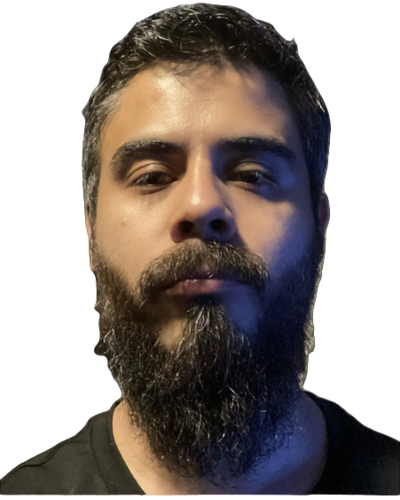
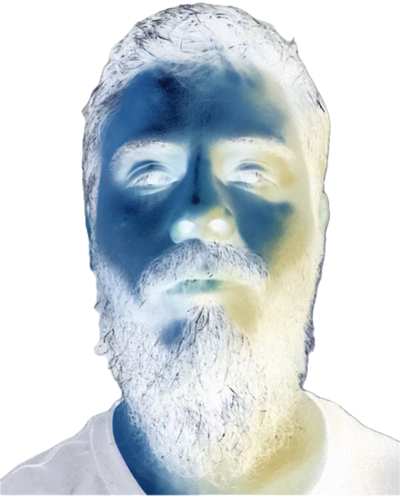
change photo

diff --git a/archive.html b/archive.html
@@ -11,9 +11,6 @@
 <link rel="preconnect" href="https://fonts.gstatic.com" crossorigin>
 <link href="https://fonts.googleapis.com/css2?family=Roboto+Slab&display=swap" rel="stylesheet">
 <link rel="icon" href="favicon.ico" type="image/x-icon">
-<style type="text/css">
-article,aside,details,figcaption,figure,footer,header,hgroup,nav,section,summary{display:block}audio,canvas,video{display:inline-block}audio:not([controls]){display:none;height:0}[hidden]{display:none}html{font-family:sans-serif;-webkit-text-size-adjust:100%;-ms-text-size-adjust:100%}body{margin:0}a:focus{outline:thin dotted}a:active,a:hover{outline:0}h1{font-size:2em}abbr[title]{border-bottom:1px dotted}b,strong{font-weight:bold}dfn{font-style:italic}mark{background:#ff0;color:#000}code,kbd,pre,samp{font-family:monospace,serif;font-size:1em}pre{white-space:pre-wrap;word-wrap:break-word}q{quotes:"\201C" "\201D" "\2018" "\2019"}small{font-size:80%}sub,sup{font-size:75%;line-height:0;position:relative;vertical-align:baseline}sup{top:-0.5em}sub{bottom:-0.25em}img{border:0}svg:not(:root){overflow:hidden}figure{margin:0}fieldset{border:1px solid #c0c0c0;margin:0 2px;padding:.35em .625em .75em}legend{border:0;padding:0}button,input,select,textarea{font-family:inherit;font-size:100%;margin:0}button,input{line-height:normal}button,html input[type="button"],input[type="reset"],input[type="submit"]{-webkit-appearance:button;cursor:pointer}button[disabled],input[disabled]{cursor:default}input[type="checkbox"],input[type="radio"]{box-sizing:border-box;padding:0}input[type="search"]{-webkit-appearance:textfield;-moz-box-sizing:content-box;-webkit-box-sizing:content-box;box-sizing:content-box}input[type="search"]::-webkit-search-cancel-button,input[type="search"]::-webkit-search-decoration{-webkit-appearance:none}button::-moz-focus-inner,input::-moz-focus-inner{border:0;padding:0}textarea{overflow:auto;vertical-align:top}table{border-collapse:collapse;border-spacing:0}html{font-family:'PT Sans',sans-serif}pre,code{font-family:'Inconsolata',sans-serif}h1,h2,h3,h4,h5,h6{font-family:'PT Sans Narrow',sans-serif;font-weight:700}html{background-color:#073642;color:#839496;margin:1em}body{background-color:#002b36;margin:0 auto;max-width:23cm;border:1pt solid #586e75;padding:1em}code{background-color:#073642;padding:2px}a{color:#b58900}a:visited{color:#cb4b16}a:hover{color:#cb4b16}h1{color:#d33682}h2,h3,h4,h5,h6{color:#859900}pre{background-color:#002b36;color:#839496;border:1pt solid #586e75;padding:1em;box-shadow:5pt 5pt 8pt #073642}pre code{background-color:#002b36}h1{font-size:2.8em}h2{font-size:2.4em}h3{font-size:1.8em}h4{font-size:1.4em}h5{font-size:1.3em}h6{font-size:1.15em}.tag{background-color:#073642;color:#d33682;padding:0 .2em}.todo,.next,.done{color:#002b36;background-color:#dc322f;padding:0 .2em}.tag{-webkit-border-radius:.35em;-moz-border-radius:.35em;border-radius:.35em}.TODO{-webkit-border-radius:.2em;-moz-border-radius:.2em;border-radius:.2em;background-color:#2aa198}.NEXT{-webkit-border-radius:.2em;-moz-border-radius:.2em;border-radius:.2em;background-color:#268bd2}.ACTIVE{-webkit-border-radius:.2em;-moz-border-radius:.2em;border-radius:.2em;background-color:#268bd2}.DONE{-webkit-border-radius:.2em;-moz-border-radius:.2em;border-radius:.2em;background-color:#859900}.WAITING{-webkit-border-radius:.2em;-moz-border-radius:.2em;border-radius:.2em;background-color:#cb4b16}.HOLD{-webkit-border-radius:.2em;-moz-border-radius:.2em;border-radius:.2em;background-color:#d33682}.NOTE{-webkit-border-radius:.2em;-moz-border-radius:.2em;border-radius:.2em;background-color:#d33682}.CANCELLED{-webkit-border-radius:.2em;-moz-border-radius:.2em;border-radius:.2em;background-color:#859900}
-</style>
 </head>
 <body>
 <div id="preamble" class="status">
@@ -35,9 +32,9 @@ article,aside,details,figcaption,figure,footer,header,hgroup,nav,section,summary
 <header>
 <h1 class="title">Posts Archive</h1>
 </header>
-<div id="outline-container-orge17a0f8" class="outline-2">
-<h2 id="orge17a0f8"><a href="posts/20231226T142110--attempt-to-test-rss-feeds__personal_post.html">(2023-12-26) Attempt to test RSS feeds</a></h2>
-<div class="outline-text-2" id="text-orge17a0f8">
+<div id="outline-container-orgc05babf" class="outline-2">
+<h2 id="orgc05babf"><a href="posts/20231226T142110--attempt-to-test-rss-feeds__personal_post.html">(2023-12-26) Attempt to test RSS feeds</a></h2>
+<div class="outline-text-2" id="text-orgc05babf">
 <p>
 Hello.
 </p>
@@ -50,9 +47,9 @@ So, this is the preview and read this post to see what I'm trying to do.
 </p>
 </div>
 </div>
-<div id="outline-container-org0360f3c" class="outline-2">
-<h2 id="org0360f3c"><a href="posts/20231225T213425--denote-silo-function__emacs_personal_post.html">(2023-12-25) denote silo function</a></h2>
-<div class="outline-text-2" id="text-org0360f3c">
+<div id="outline-container-orgf24d116" class="outline-2">
+<h2 id="orgf24d116"><a href="posts/20231225T213425--denote-silo-function__emacs_personal_post.html">(2023-12-25) denote silo function</a></h2>
+<div class="outline-text-2" id="text-orgf24d116">
 <p>
 I have been reading some thing information about denote, and its powerful tools
 that the good <code>prots</code> give to us the mortals. I am starting this "post" thing, and 
@@ -62,9 +59,9 @@ in the creation of notes.
 </p>
 </div>
 </div>
-<div id="outline-container-orgcc1619e" class="outline-2">
-<h2 id="orgcc1619e"><a href="posts/20231224T095629--themes-and-end-of-the-year__personal_post.html">(2023-12-23) Themes and end of the year</a></h2>
-<div class="outline-text-2" id="text-orgcc1619e">
+<div id="outline-container-org677049f" class="outline-2">
+<h2 id="org677049f"><a href="posts/20231224T095629--themes-and-end-of-the-year__personal_post.html">(2023-12-23) Themes and end of the year</a></h2>
+<div class="outline-text-2" id="text-org677049f">
 <p>
 This is the first of a few posts I'm creating this "web" only for my knowledge,
 and contribute with some of it.

diff --git a/sitemap.html b/sitemap.html
@@ -33,50 +33,50 @@
 <h2>Table of Contents</h2>
 <div id="text-table-of-contents" role="doc-toc">
 <ul>
-<li><a href="#orgdba148a">(2023-12-26) Javier Pacheco</a></li>
-<li><a href="#orge4da51b">(2023-12-26) About Me</a></li>
-<li><a href="#orge10b153">(2023-12-26) Posts Archive</a></li>
-<li><a href="#orgad9bc01">posts</a>
+<li><a href="#orgcb57235">(2023-12-26) Posts Archive</a></li>
+<li><a href="#org7d0cd62">(2023-12-26) Javier Pacheco</a></li>
+<li><a href="#org29e22b1">(2023-12-26) About Me</a></li>
+<li><a href="#org2e75d76">posts</a>
 <ul>
-<li><a href="#org3dbf5df">(2023-12-26) Attempt to test RSS feeds</a></li>
-<li><a href="#org255c64f">(2023-12-25) denote silo function</a></li>
-<li><a href="#org71ce504">(2023-12-23) Themes and end of the year</a></li>
+<li><a href="#orgb99a533">(2023-12-26) Attempt to test RSS feeds</a></li>
+<li><a href="#orgf9f64c7">(2023-12-25) denote silo function</a></li>
+<li><a href="#org0b57f21">(2023-12-23) Themes and end of the year</a></li>
 </ul>
 </li>
 </ul>
 </div>
 </nav>
-<div id="outline-container-orgdba148a" class="outline-2">
-<h2 id="orgdba148a"><a href="index.html">(2023-12-26) Javier Pacheco</a></h2>
-<div class="outline-text-2" id="text-orgdba148a">
+<div id="outline-container-orgcb57235" class="outline-2">
+<h2 id="orgcb57235"><a href="archive.html">(2023-12-26) Posts Archive</a></h2>
+<div class="outline-text-2" id="text-orgcb57235">
 <p>
 (No preview)
 </p>
 </div>
 </div>
-<div id="outline-container-orge4da51b" class="outline-2">
-<h2 id="orge4da51b"><a href="about.html">(2023-12-26) About Me</a></h2>
-<div class="outline-text-2" id="text-orge4da51b">
+<div id="outline-container-org7d0cd62" class="outline-2">
+<h2 id="org7d0cd62"><a href="index.html">(2023-12-26) Javier Pacheco</a></h2>
+<div class="outline-text-2" id="text-org7d0cd62">
 <p>
 (No preview)
 </p>
 </div>
 </div>
-<div id="outline-container-orge10b153" class="outline-2">
-<h2 id="orge10b153"><a href="archive.html">(2023-12-26) Posts Archive</a></h2>
-<div class="outline-text-2" id="text-orge10b153">
+<div id="outline-container-org29e22b1" class="outline-2">
+<h2 id="org29e22b1"><a href="about.html">(2023-12-26) About Me</a></h2>
+<div class="outline-text-2" id="text-org29e22b1">
 <p>
 (No preview)
 </p>
 </div>
 </div>
-<div id="outline-container-orgad9bc01" class="outline-2">
-<h2 id="orgad9bc01">posts</h2>
-<div class="outline-text-2" id="text-orgad9bc01">
+<div id="outline-container-org2e75d76" class="outline-2">
+<h2 id="org2e75d76">posts</h2>
+<div class="outline-text-2" id="text-org2e75d76">
 </div>
-<div id="outline-container-org3dbf5df" class="outline-3">
-<h3 id="org3dbf5df"><a href="posts/20231226T142110--attempt-to-test-rss-feeds__personal_post.html">(2023-12-26) Attempt to test RSS feeds</a></h3>
-<div class="outline-text-3" id="text-org3dbf5df">
+<div id="outline-container-orgb99a533" class="outline-3">
+<h3 id="orgb99a533"><a href="posts/20231226T142110--attempt-to-test-rss-feeds__personal_post.html">(2023-12-26) Attempt to test RSS feeds</a></h3>
+<div class="outline-text-3" id="text-orgb99a533">
 <p>
 Hello.
 </p>
@@ -89,9 +89,9 @@ So, this is the preview and read this post to see what I'm trying to do.
 </p>
 </div>
 </div>
-<div id="outline-container-org255c64f" class="outline-3">
-<h3 id="org255c64f"><a href="posts/20231225T213425--denote-silo-function__emacs_personal_post.html">(2023-12-25) denote silo function</a></h3>
-<div class="outline-text-3" id="text-org255c64f">
+<div id="outline-container-orgf9f64c7" class="outline-3">
+<h3 id="orgf9f64c7"><a href="posts/20231225T213425--denote-silo-function__emacs_personal_post.html">(2023-12-25) denote silo function</a></h3>
+<div class="outline-text-3" id="text-orgf9f64c7">
 <p>
 I have been reading some thing information about denote, and its powerful tools
 that the good <code>prots</code> give to us the mortals. I am starting this "post" thing, and 
@@ -101,9 +101,9 @@ in the creation of notes.
 </p>
 </div>
 </div>
-<div id="outline-container-org71ce504" class="outline-3">
-<h3 id="org71ce504"><a href="posts/20231224T095629--themes-and-end-of-the-year__personal_post.html">(2023-12-23) Themes and end of the year</a></h3>
-<div class="outline-text-3" id="text-org71ce504">
+<div id="outline-container-org0b57f21" class="outline-3">
+<h3 id="org0b57f21"><a href="posts/20231224T095629--themes-and-end-of-the-year__personal_post.html">(2023-12-23) Themes and end of the year</a></h3>
+<div class="outline-text-3" id="text-org0b57f21">
 <p>
 This is the first of a few posts I'm creating this "web" only for my knowledge,
 and contribute with some of it.

diff --git a/posts/20231226T142110--attempt-to-test-rss-feeds__personal_post.html b/posts/20231226T142110--attempt-to-test-rss-feeds__personal_post.html
@@ -35,17 +35,17 @@
 <h2>Table of Contents</h2>
 <div id="text-table-of-contents" role="doc-toc">
 <ul>
-<li><a href="#orgf58d732">Rss Feeds.</a></li>
-<li><a href="#org0bcaa15">Packages needed:</a></li>
-<li><a href="#org9a36670">Functions to use:</a></li>
-<li><a href="#org2221066">Testing.</a></li>
+<li><a href="#orge4d02ac">Rss Feeds.</a></li>
+<li><a href="#orgbdb4ebb">Packages needed:</a></li>
+<li><a href="#org239d6ae">Functions to use:</a></li>
+<li><a href="#orgdcd5d03">Testing.</a></li>
 </ul>
 </div>
 </nav>
 <p>
 
 </p>
-<div class="PREVIEW" id="orgb88fc5c">
+<div class="PREVIEW" id="org5bf38d3">
 <p>
 Hello.
 </p>
@@ -59,14 +59,14 @@ So, this is the preview and read this post to see what I'm trying to do.
 
 </div>
 
-<div id="outline-container-orgf58d732" class="outline-2">
-<h2 id="orgf58d732">Rss Feeds.</h2>
-<div class="outline-text-2" id="text-orgf58d732">
+<div id="outline-container-orge4d02ac" class="outline-2">
+<h2 id="orge4d02ac">Rss Feeds.</h2>
+<div class="outline-text-2" id="text-orge4d02ac">
 <p>
 First, what is <code>rss feeds</code>?
 This is what wikipedia have in theri page:
 </p>
-<pre class="example" id="org7ba1f23">
+<pre class="example" id="org4a64547">
 RSS (RDF Site Summary or Really Simple Syndication) is a web feed that allows users and applications to access updates to websites in a standardized, computer-readable format. Subscribing to RSS feeds can allow a user to keep track of many different websites in a single news aggregator, which constantly monitor sites for new content, removing the need for the user to manually check them. News aggregators (or "RSS readers") can be built into a browser, installed on a desktop computer, or installed on a mobile device.
 </pre>
 
@@ -77,9 +77,9 @@ and stored in my host <code>codeberg pages</code>, well that is the goal, but I'
 </div>
 </div>
 
-<div id="outline-container-org0bcaa15" class="outline-2">
-<h2 id="org0bcaa15">Packages needed:</h2>
-<div class="outline-text-2" id="text-org0bcaa15">
+<div id="outline-container-orgbdb4ebb" class="outline-2">
+<h2 id="orgbdb4ebb">Packages needed:</h2>
+<div class="outline-text-2" id="text-orgbdb4ebb">
 <p>
 These are the packages that we need to use to make the rss file:
 </p>
@@ -109,9 +109,9 @@ and these need to be in the <code>build-site.el</code> script:
 </div>
 </div>
 
-<div id="outline-container-org9a36670" class="outline-2">
-<h2 id="org9a36670">Functions to use:</h2>
-<div class="outline-text-2" id="text-org9a36670">
+<div id="outline-container-org239d6ae" class="outline-2">
+<h2 id="org239d6ae">Functions to use:</h2>
+<div class="outline-text-2" id="text-org239d6ae">
 <p>
 Now declare some functions to parse in the public folder that we create for save the
 exported <code>html</code> files.
@@ -149,9 +149,9 @@ exported <code>html</code> files.
 </div>
 </div>
 
-<div id="outline-container-org2221066" class="outline-2">
-<h2 id="org2221066">Testing.</h2>
-<div class="outline-text-2" id="text-org2221066">
+<div id="outline-container-orgdcd5d03" class="outline-2">
+<h2 id="orgdcd5d03">Testing.</h2>
+<div class="outline-text-2" id="text-orgdcd5d03">
 <p>
 Well, this post ends here, now in a few minutes this post is going to be uploaded,
 and I'll see if rss feeds generator actually works whit the functions and  commands

diff --git a/index.html b/index.html
@@ -51,13 +51,13 @@ Also I'm currently learning some programming languages like:
 <p>
 <a href="./about.html">Read more&#x2026;</a>
 </p>
-<div id="outline-container-org8589d70" class="outline-2">
-<h2 id="org8589d70">Recent Posts</h2>
-<div class="outline-text-2" id="text-org8589d70">
+<div id="outline-container-org6ea9300" class="outline-2">
+<h2 id="org6ea9300">Recent Posts</h2>
+<div class="outline-text-2" id="text-org6ea9300">
 </div>
-<div id="outline-container-orgb3615da" class="outline-3">
-<h3 id="orgb3615da"><a href="posts/20231226T142110--attempt-to-test-rss-feeds__personal_post.html">(2023-12-26) Attempt to test RSS feeds</a></h3>
-<div class="outline-text-3" id="text-orgb3615da">
+<div id="outline-container-org006a236" class="outline-3">
+<h3 id="org006a236"><a href="posts/20231226T142110--attempt-to-test-rss-feeds__personal_post.html">(2023-12-26) Attempt to test RSS feeds</a></h3>
+<div class="outline-text-3" id="text-org006a236">
 <p>
 Hello.
 </p>
@@ -70,9 +70,9 @@ So, this is the preview and read this post to see what I'm trying to do.
 </p>
 </div>
 </div>
-<div id="outline-container-orgf0a9f3f" class="outline-3">
-<h3 id="orgf0a9f3f"><a href="posts/20231225T213425--denote-silo-function__emacs_personal_post.html">(2023-12-25) denote silo function</a></h3>
-<div class="outline-text-3" id="text-orgf0a9f3f">
+<div id="outline-container-org2693747" class="outline-3">
+<h3 id="org2693747"><a href="posts/20231225T213425--denote-silo-function__emacs_personal_post.html">(2023-12-25) denote silo function</a></h3>
+<div class="outline-text-3" id="text-org2693747">
 <p>
 I have been reading some thing information about denote, and its powerful tools
 that the good <code>prots</code> give to us the mortals. I am starting this "post" thing, and 
@@ -82,9 +82,9 @@ in the creation of notes.
 </p>
 </div>
 </div>
-<div id="outline-container-org4a06954" class="outline-3">
-<h3 id="org4a06954"><a href="posts/20231224T095629--themes-and-end-of-the-year__personal_post.html">(2023-12-23) Themes and end of the year</a></h3>
-<div class="outline-text-3" id="text-org4a06954">
+<div id="outline-container-org2bbc8af" class="outline-3">
+<h3 id="org2bbc8af"><a href="posts/20231224T095629--themes-and-end-of-the-year__personal_post.html">(2023-12-23) Themes and end of the year</a></h3>
+<div class="outline-text-3" id="text-org2bbc8af">
 <p>
 This is the first of a few posts I'm creating this "web" only for my knowledge,
 and contribute with some of it.
@@ -98,9 +98,9 @@ are some phrases that my dad says to me when me and my family have some problems
 </div>
 </div>
 </div>
-<div id="outline-container-org3129406" class="outline-2">
-<h2 id="org3129406">Post Archive</h2>
-<div class="outline-text-2" id="text-org3129406">
+<div id="outline-container-org6bc33ca" class="outline-2">
+<h2 id="org6bc33ca">Post Archive</h2>
+<div class="outline-text-2" id="text-org6bc33ca">
 <p>
 <a href="archive.html">All Posts</a>
 </p>

diff --git a/posts/20231225T213425--denote-silo-function__emacs_personal_post.html b/posts/20231225T213425--denote-silo-function__emacs_personal_post.html
@@ -35,19 +35,19 @@
 <h2>Table of Contents</h2>
 <div id="text-table-of-contents" role="doc-toc">
 <ul>
-<li><a href="#org32304a5">Use custom commands to select a silo.</a>
+<li><a href="#org9a13e9d">Use custom commands to select a silo.</a>
 <ul>
-<li><a href="#org99368d1">The Silo funcitons:</a></li>
+<li><a href="#orgccca316">The Silo funcitons:</a></li>
 </ul>
 </li>
-<li><a href="#org19186e2">links:</a></li>
+<li><a href="#org336d4da">links:</a></li>
 </ul>
 </div>
 </nav>
 <p>
 
 </p>
-<div class="PREVIEW" id="orgc4b6085">
+<div class="PREVIEW" id="org400be26">
 <p>
 I have been reading some thing information about denote, and its powerful tools
 that the good <code>prots</code> give to us the mortals. I am starting this "post" thing, and 
@@ -58,18 +58,18 @@ in the creation of notes.
 
 </div>
 
-<div id="outline-container-org32304a5" class="outline-2">
-<h2 id="org32304a5">Use custom commands to select a silo.</h2>
-<div class="outline-text-2" id="text-org32304a5">
+<div id="outline-container-org9a13e9d" class="outline-2">
+<h2 id="org9a13e9d">Use custom commands to select a silo.</h2>
+<div class="outline-text-2" id="text-org9a13e9d">
 <p>
 As you can read in the tittle, <code>prots</code> creates this singular <i>elsip</i>, that  prompts
 for a entry point directory and then a denote function.
 </p>
 </div>
 
-<div id="outline-container-org99368d1" class="outline-3">
-<h3 id="org99368d1">The Silo funcitons:</h3>
-<div class="outline-text-3" id="text-org99368d1">
+<div id="outline-container-orgccca316" class="outline-3">
+<h3 id="orgccca316">The Silo funcitons:</h3>
+<div class="outline-text-3" id="text-orgccca316">
 <ul class="org-ul">
 <li>First part of the function:</li>
 </ul>
@@ -175,9 +175,9 @@ that <code>protesilaos</code> provide to us, so, Thank you prot.
 </div>
 </div>
 
-<div id="outline-container-org19186e2" class="outline-2">
-<h2 id="org19186e2">links:</h2>
-<div class="outline-text-2" id="text-org19186e2">
+<div id="outline-container-org336d4da" class="outline-2">
+<h2 id="org336d4da">links:</h2>
+<div class="outline-text-2" id="text-org336d4da">
 <dl class="org-dl">
 <dt><a href="https://protesilaos.com/emacs/denote#h:0f72e6ea-97f0-42e1-8fd4-0684af0422e0">Protesilaos web page</a></dt><dd>3.5.1. Use custom commands to select a silo</dd>
 </dl>

diff --git a/about.html b/about.html
@@ -32,7 +32,7 @@
 <header>
 <h1 class="title">About Me</h1>
 </header>
-<figure id="org0d2c004">
+<figure id="orgff01b24">
 <img src="./jp.png" alt="jp.png" width="200px" style="float:left;margin:0px 20px 20px 0px;">
 
 </figure>
@@ -63,9 +63,9 @@ I am working at <b>AUTOLIV</b> in H. Matamoros, Tamaulipas, and I am open to
 work in others companies and projects.
 </p>
 
-<div id="outline-container-orgb6439fa" class="outline-2">
-<h2 id="orgb6439fa">Where to Find Me</h2>
-<div class="outline-text-2" id="text-orgb6439fa">
+<div id="outline-container-org88b46ec" class="outline-2">
+<h2 id="org88b46ec">Where to Find Me</h2>
+<div class="outline-text-2" id="text-org88b46ec">
 <ul class="org-ul">
 <li>Find more about me.</li>
 <li><a href="https://codeberg.org/jpacheco">Codeberg</a></li>
@@ -74,9 +74,9 @@ work in others companies and projects.
 </div>
 </div>
 
-<div id="outline-container-orgb363c1c" class="outline-2">
-<h2 id="orgb363c1c">Some projects.</h2>
-<div class="outline-text-2" id="text-orgb363c1c">
+<div id="outline-container-org1654764" class="outline-2">
+<h2 id="org1654764">Some projects.</h2>
+<div class="outline-text-2" id="text-org1654764">
 <ul class="org-ul">
 <li><a href="https://codeberg.org/jpacheco/noobemacs">Noobemacs, a minimal emacs configuration with evil mode.</a></li>
 </ul>

diff --git a/posts/20231224T095629--themes-and-end-of-the-year__personal_post.html b/posts/20231224T095629--themes-and-end-of-the-year__personal_post.html
@@ -42,7 +42,7 @@
 <p>
 
 </p>
-<div class="PREVIEW" id="org9ef88a2">
+<div class="PREVIEW" id="org14ce54c">
 <p>
 This is the first of a few posts I'm creating this "web" only for my knowledge,
 and contribute with some of it.
